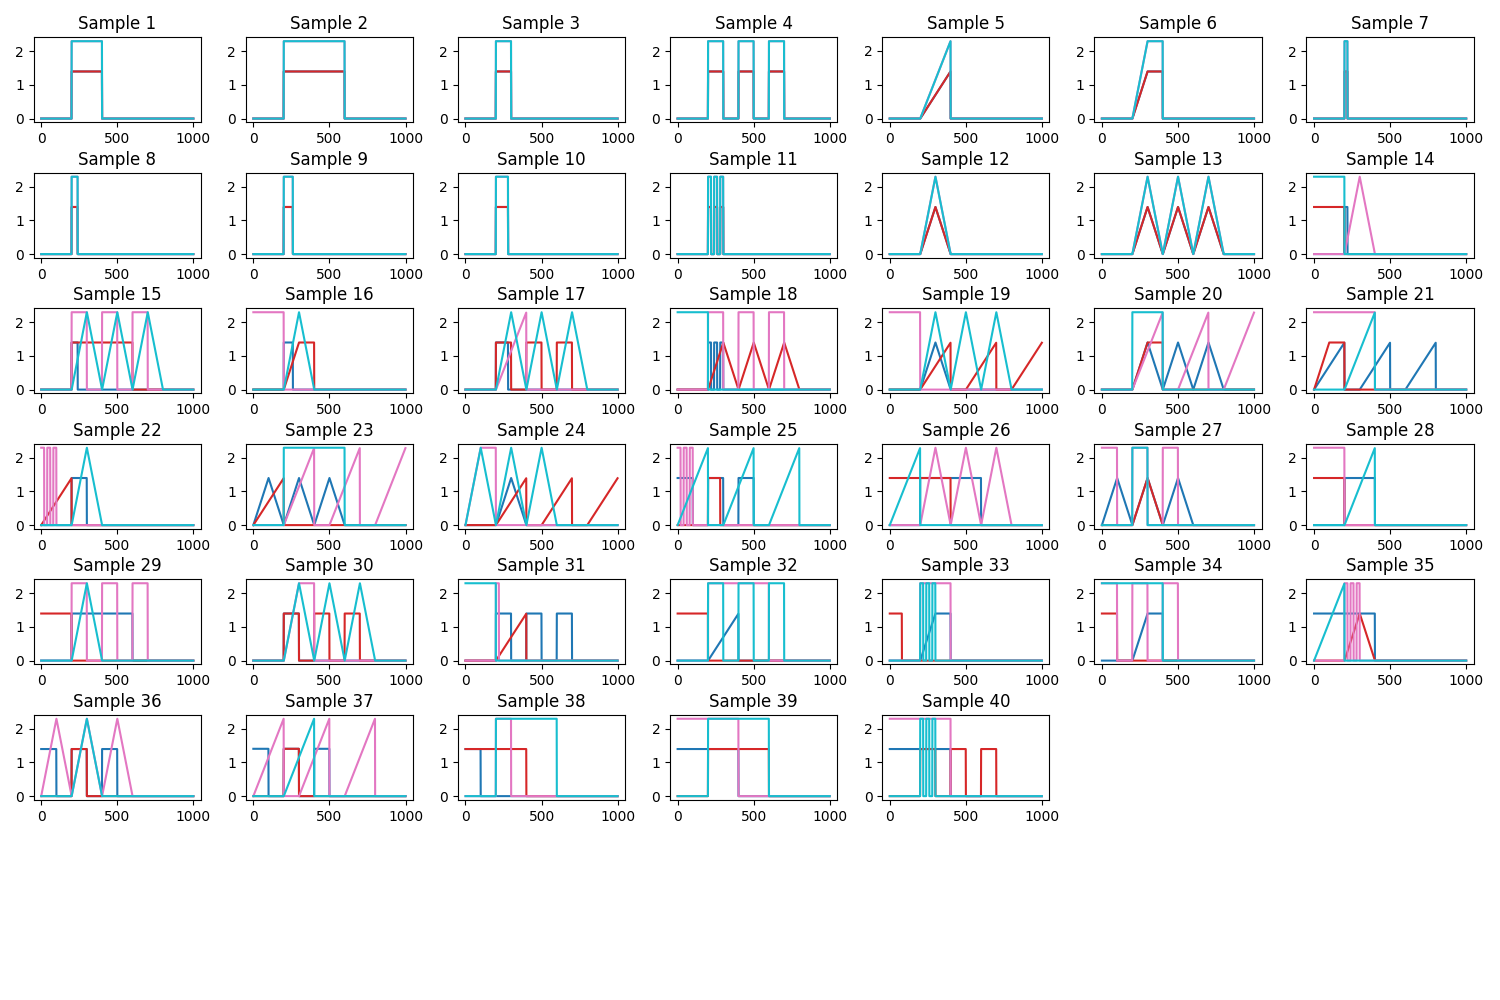
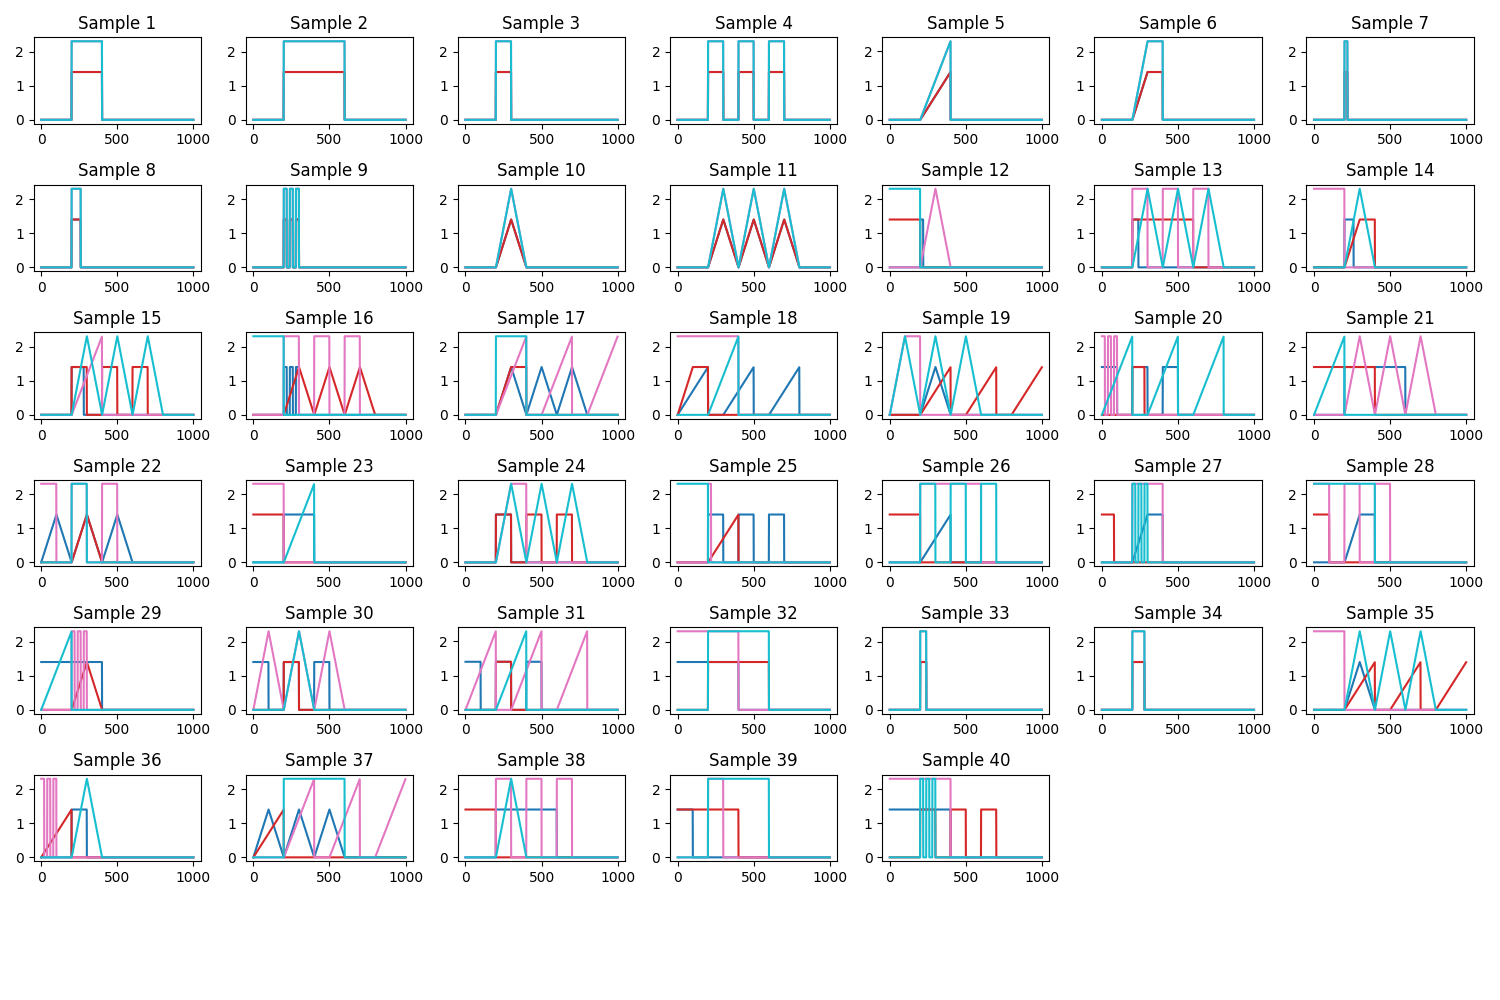
Manual split + plots

diff --git a/datasets/CEHandler.py b/datasets/CEHandler.py
@@ -8,6 +8,8 @@ class CEHandler():
     def __init__(self):
         self.dir_name = 'CE'
         self.test_ratio = 0.2
+        self.train_test_split = 'manual' # 'manual' / 'threshold'
+        self.test_indices = [8, 10, 19, 22, 23, 29, 38, 40] # For 'manual' only, starts at 1 (not 0)
         self.model_file = f"datasets/{self.dir_name}/features/BaseCE.h5"
     
     def fetch_data(self):
@@ -22,7 +24,7 @@ class CEHandler():
             num_samples = inputs.shape[2]
             num_time_series = inputs.shape[1]
 
-            df = np.zeros((num_samples, len(times), num_time_series*2))
+            X = np.zeros((num_samples, len(times), num_time_series*2))
 
             # Generate columns for each time series
             for j in range(num_samples):
@@ -31,17 +33,9 @@ class CEHandler():
                         time_series = [inputs[k, i, j] for k in range(len(times))]
                     else:
                         time_series = [outputs[k, i-num_time_series, j] for k in range(len(times))]
-                    df[j, :, i] = time_series
+                    X[j, :, i] = time_series
 
-            # Split data into train and test sets
-            num_test_samples = int(self.test_ratio * num_samples)
-            train_data = df[:-num_test_samples]
-            test_data = df[-num_test_samples:]
-
-            X_train = train_data[:, :, :num_time_series]
-            y_train = train_data[:, :, num_time_series:]
-            X_test = test_data[:, :, :num_time_series]
-            y_test = test_data[:, :, num_time_series:]
+            X_train, y_train, X_test, y_test = self.data_split(X, num_samples=num_samples, num_time_series=num_time_series)
 
             if not os.path.exists(f"datasets/{self.dir_name}/features"):
                 os.makedirs(f"datasets/{self.dir_name}/features")
@@ -62,6 +56,34 @@ class CEHandler():
 
         print(f"X_test shape: {X_test.shape}")
         print(f"y_test shape: {y_test.shape}")
+
+        return X_train, y_train, X_test, y_test
+
+    def data_split(self, X, num_samples=None, num_time_series=None):
+        if self.train_test_split == 'threshold':
+            # Split data into train and test sets
+            num_test_samples = int(self.test_ratio * num_samples)
+            train_data = X[:-num_test_samples]
+            test_data = X[-num_test_samples:]
+        
+        elif self.train_test_split == 'manual':
+            test_indices = np.array(self.test_indices)-1
+
+            # Create a mask for the test indices
+            mask = np.ones(X.shape[0], dtype=bool)
+            mask[test_indices] = False
+            
+            # Split the data into training and testing sets
+            train_data = X[mask]
+            test_data = X[test_indices]
+        
+        else:
+            raise NotImplementedError("Only threshold and manual train-test splits are implemented")
+        
+        X_train = train_data[:, :, :num_time_series]
+        y_train = train_data[:, :, num_time_series:]
+        X_test = test_data[:, :, :num_time_series]
+        y_test = test_data[:, :, num_time_series:]
 
         return X_train, y_train, X_test, y_test
     

diff --git a/utils.py b/utils.py
@@ -49,13 +49,6 @@ def plot_all_samples(X, save_dir, filename):
     fig, axes = plt.subplots(num_rows, num_cols, figsize=(15, 10))
     colors = plt.cm.get_cmap('tab10', num_feats)
     
-    handles = []
-    labels = []
-
-    for i in range(num_feats):
-        handles.append(plt.Line2D([0], [0], color=colors(i), label=f'Feature {i+1}'))
-        labels.append(f'Feature {i+1}')
-
     for i in range(num_samples):
         row = i // num_cols
         col = i % num_cols
@@ -69,13 +62,21 @@ def plot_all_samples(X, save_dir, filename):
     # Remove empty subplots
     for i in range(num_samples, num_rows * num_cols):
         fig.delaxes(axes.flatten()[i])
-
-    fig.legend(handles=handles, labels=labels, loc='lower center', ncol=num_feats, bbox_to_anchor=(0.5, -0.05))
     
-    plt.tight_layout()
-    plt.subplots_adjust(bottom=0.2)
-    plt.savefig(os.path.join(save_dir, filename))
-    plt.close()
+    # Create a dummy figure for the legend
+    fig_legend = plt.figure(figsize=(15, 1))
+    handles = [plt.Line2D([0], [0], color=colors(i), lw=2) for i in range(num_feats)]
+    labels = [f'Feature {i+1}' for i in range(num_feats)]
+    
+    fig_legend.legend(handles, labels, loc='center', ncol=num_feats)
+    
+    fig.tight_layout(rect=[0, 0.1, 1, 1])  # Adjust the main plot layout to make space for the legend
+    fig.savefig(os.path.join(save_dir, filename))
+    plt.close(fig)
+    
+    fig_legend.savefig(os.path.join(save_dir, f"{filename}_legend.png"))
+    plt.close(fig_legend)
+
 
 def save_model(model, dataset):
     """
